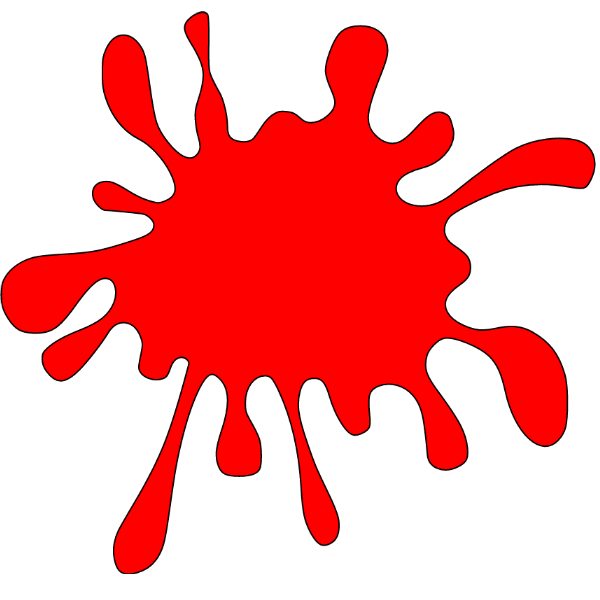
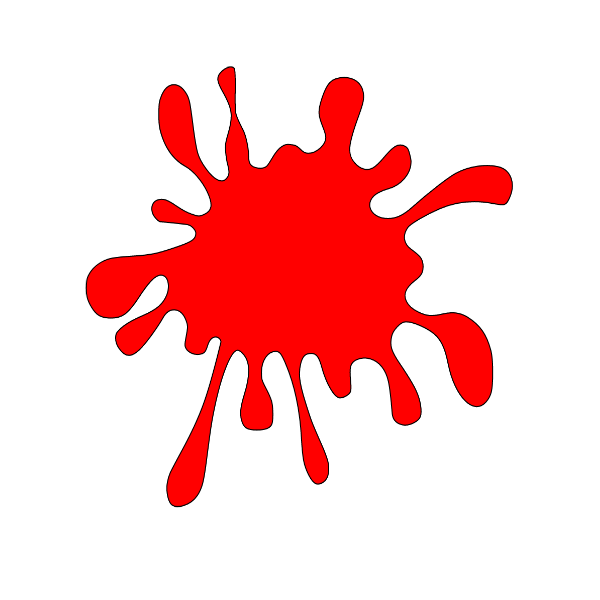
add blood_spot img

Changed region(s): [[0.0, 0.0, 1.0, 0.96]]

diff --git a/scripts/render.js b/scripts/render.js
@@ -119,7 +119,7 @@ define(["vector" ,"lines"], function (vector) {
         show_blood_spot: function () {
           if (blood_spot.complete) {
             console.log("here");
-            ctx.drawImage(blood_spot, offset.x, 0 );
+            ctx.drawImage(blood_spot, offset.x, 50 );
           } else {
             blood_spot.onload = function () {
               ctx.drawImage(blood_spot, offset.x, 0 );
